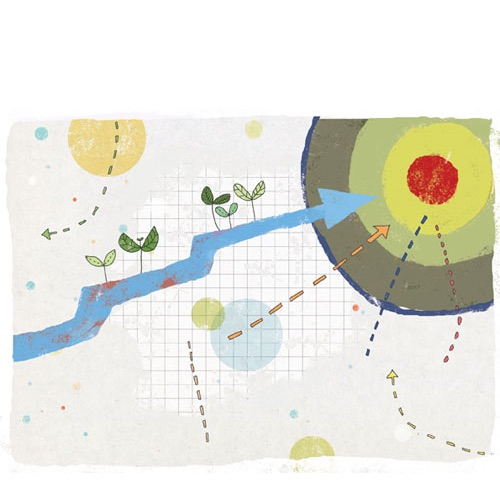
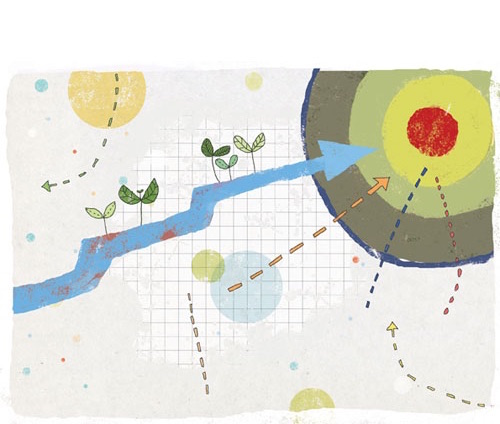
images

diff --git a/css/foundation.css b/css/foundation.css
@@ -131,7 +131,7 @@ body {
   -o-background-size: cover;
   position: fixed;
   width: 100%;
-    background: url("https://github.com/cschoellhorn/website/blob/master/img/target.jpg?raw=true");
+    background: url("https://github.com/cschoellhorn/website/blob/master/img/target2.jpg?raw=true");
   background-repeat: no-repeat;
   background-size: cover;
 }
